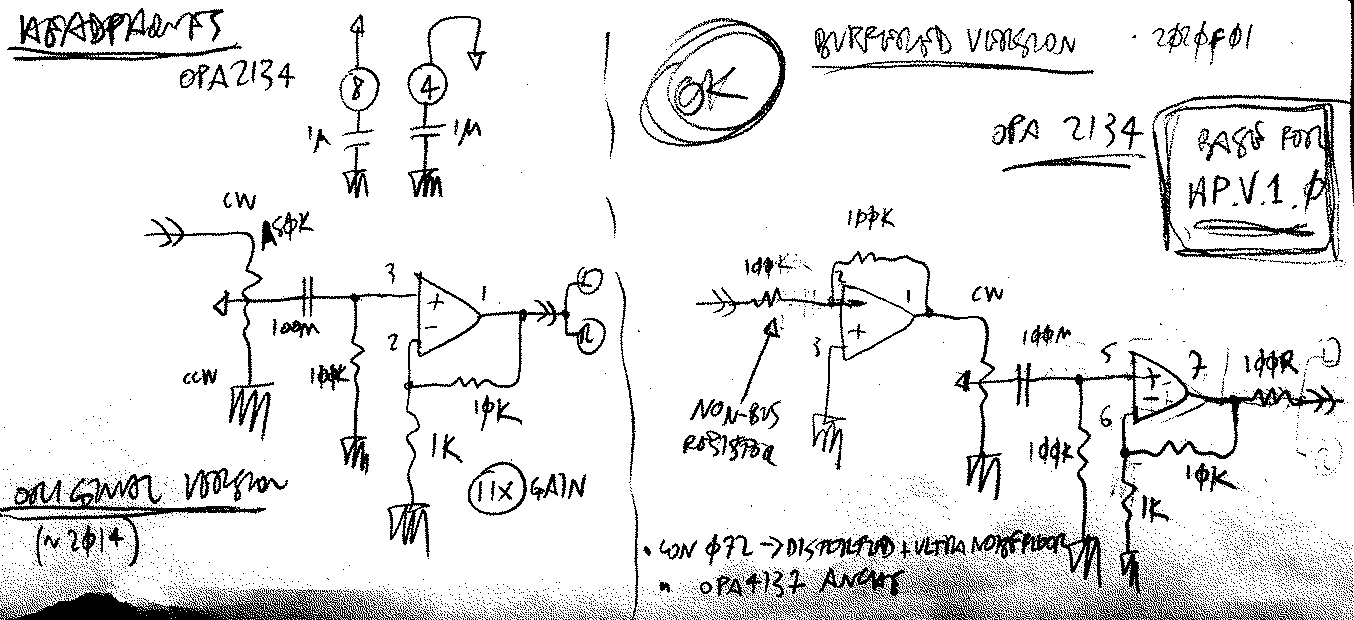
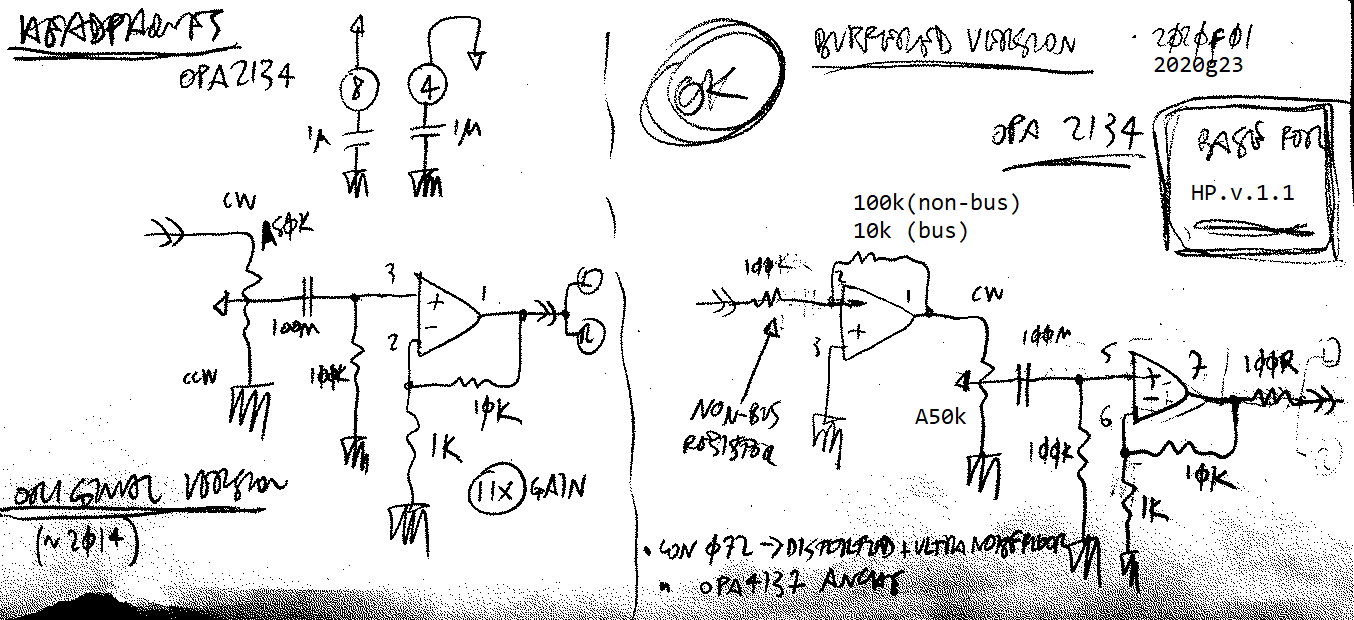
nj

diff --git a/nhan002-headphones-driver/nhan002.md b/nhan002-headphones-driver/nhan002.md
@@ -7,18 +7,23 @@ On the left the original version, on the right the final version, can drive a si
 
 100n cap to block unwanted DC, for once :D
 
-For stereo headphones, use 2 separated copies. Use opa4134, quad version of the 2134
+For stereo headphones, use 2 separated copies. You can use **opa4134**, quad version of the **opa2134**. OR keep two separate **opa2134s** for a multipurpose pcb.
 
-The `non-bus` resistor is to be used when you have a single source coming in.
-If the source is a bus, each element of the bus should have their own 100k summing resistor.
+The `non-bus` resistor is to be used when you have a single source coming in. In this case use `100k` resistors
+
+If the source is a bus, use `10k` resistors. Each element of the bus should have its own `10k` summing resistor.
 
 ### as output stage:
 <img src="img/opa-final-stage.png" alt="2020f01" width="80%"/>
 
-Can also be used as output stage after others using eg. TL07x's.
-The final opa2134 provides the correct drive and impedance matching
+Can also be used as output stage after other stages that might be using eg. **TL07x's**.
+
+The `opa2134` at the end of the chain provides for the correct drive and impedance matching.
+
 Can also be used as a general-purpose output stage, providing compatibility with headphones _and_ line out.
-**ACHTUNG** the opa2134 design is **inverting**, feed it an inverted signal if you're using it as a general-purpose output stage, to avoid phase inversion.
+
+## ACHTUNG
+the `opa2134` design is **inverting**, feed it an inverted signal if you're using it as a general-purpose output stage, to avoid phase inversion.
 
 ## Other ideas:
 <img src="img/ysr-v00.png" alt="ysr-v00" width="80%"/>
